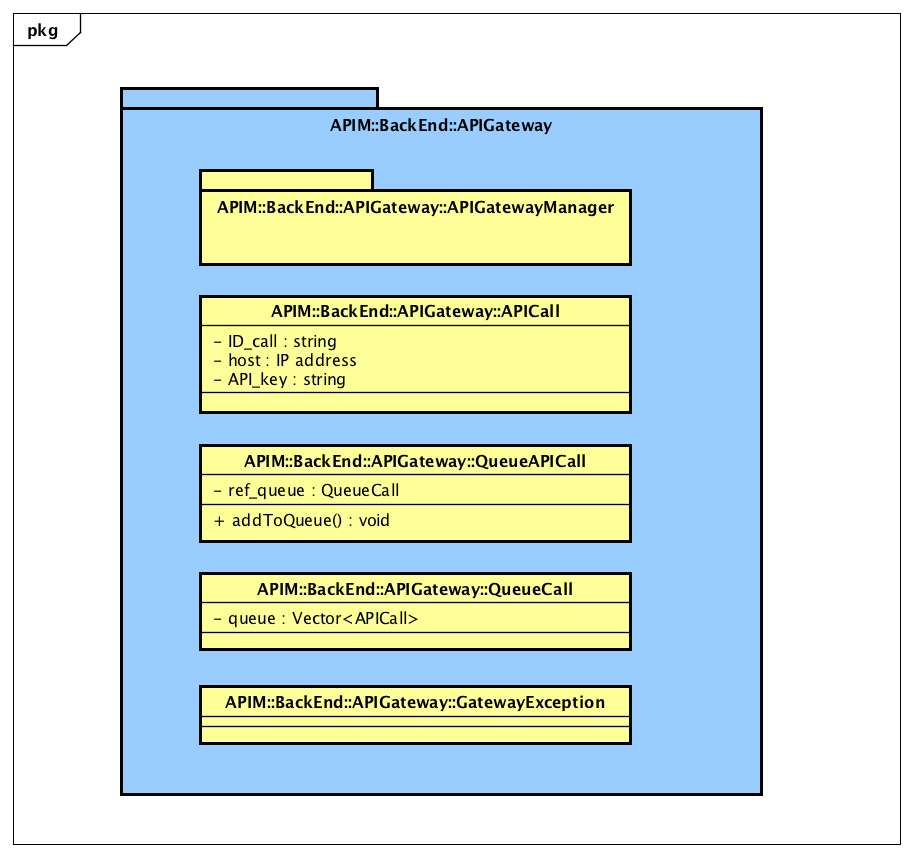
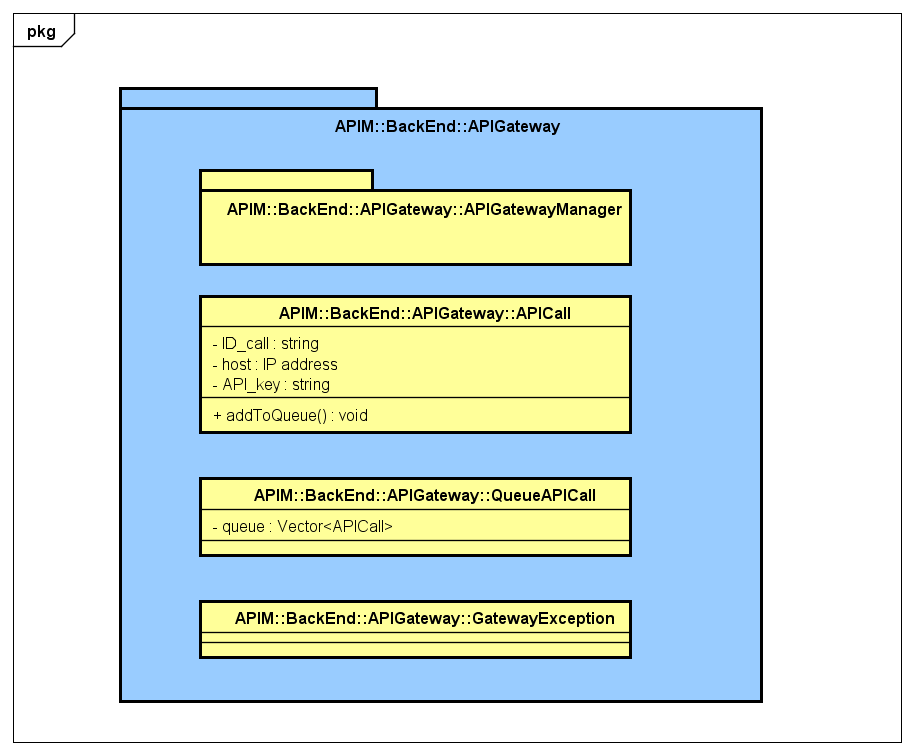
Concluso tracciamento fontireq + Adeguamento apigateway.tex al diagramma
La classe QueueCall in realtà era inutile ed è stata tagliata fuori

diff --git a/Docs/RP/Analisi dei requisiti/includes/tabellaRequisiti/tracciamentoreqfonti.tex b/Docs/RP/Analisi dei requisiti/includes/tabellaRequisiti/tracciamentoreqfonti.tex
@@ -185,30 +185,35 @@
 \hyperlink{RFO4.3.1}{RFO4.3.1} 
 & \hyperlink{Interno}{Interno}\\
 & \hyperref[UC6]{UC6}\\
+& \hyperref[UC6.1]{UC6.1}\\
 & \hyperref[UC6.3]{UC6.3}\\
 & \hyperref[UC6.3.1]{UC6.3.1}\\ \hline
 
 \hyperlink{RFO4.3.2}{RFO4.3.2} 
 & \hyperlink{Interno}{Interno}\\
 & \hyperref[UC6]{UC6}\\
+& \hyperref[UC6.1]{UC6.1}\\
 & \hyperref[UC6.3]{UC6.3}\\
 & \hyperref[UC6.3.2]{UC6.3.2}\\ \hline
 
 \hyperlink{RFO4.3.3}{RFO4.3.3} 
 & \hyperlink{Interno}{Interno}\\
 & \hyperref[UC6]{UC6}\\
+& \hyperref[UC6.1]{UC6.1}\\
 & \hyperref[UC6.3]{UC6.3}\\
 & \hyperref[UC6.3.3]{UC6.3.3}\\ \hline
 
 \hyperlink{RFD4.3.4}{RFD4.3.4} 
 & \hyperlink{Interno}{Interno}\\
 & \hyperref[UC6]{UC6}\\
+& \hyperref[UC6.1]{UC6.1}\\
 & \hyperref[UC6.3]{UC6.3}\\
 & \hyperref[UC6.3.4]{UC6.3.4}\\ \hline
 
 \hyperlink{RFO4.3.5}{RFO4.3.5} 
 & \hyperlink{Interno}{Interno}\\
 & \hyperref[UC6]{UC6}\\
+& \hyperref[UC6.1]{UC6.1}\\
 & \hyperref[UC6.3]{UC6.3}\\
 & \hyperref[UC6.3.5]{UC6.3.5}\\ \hline
 
@@ -257,6 +262,19 @@
 & \hyperlink{Capitolato}{Capitolato}\\
 & \hyperref[UC7]{UC7}\\
 & \hyperref[UC7.6]{UC7.6}\\ \hline
+
+\hyperlink{RFO5.6.1}{RFO5.6.1} 
+& \hyperlink{Capitolato}{Capitolato}\\
+& \hyperref[UC7]{UC7}\\
+& \hyperref[UC7.6]{UC7.6}\\
+& \hyperref[UC7.6.1]{UC7.6.1}\\ \hline
+
+\hyperlink{RFO5.6.2}{RFO5.6.2} 
+& \hyperlink{Capitolato}{Capitolato}\\
+& \hyperref[UC7]{UC7}\\
+& \hyperref[UC7.6]{UC7.6}\\
+& \hyperref[UC7.6.2]{UC7.6.2}\\ \hline
+
 
 \hyperlink{RFO5.7}{RFO5.7} 
 & \hyperlink{Capitolato}{Capitolato}\\
@@ -374,6 +392,7 @@
     \hyperlink{RFO7.1.1}{RFO7.1.1} 
     & \hyperlink{Interno}{Interno}\\
    & \hyperref[UC9]{UC9}\\
+   & \hyperref[UC9.1]{UC9.1}\\
    & \hyperref[UC9.1.1]{UC9.1.1}\\\hline
    
    \hyperlink{RFO7.1.2}{RFO7.1.2} 
@@ -538,13 +557,6 @@
  & \hyperref[UC10.2]{UC10.2}\\
  & \hyperref[UC10.2.4]{UC10.2.4}\\
  & \hyperref[UC10.2.4.10]{UC10.2.4.10}\\\hline
- 
- \hyperlink{RFO8.2.4.11}{RFO8.2.4.11} 
- & \hyperlink{Interno}{Interno}\\
- & \hyperref[UC10]{UC10}\\
- & \hyperref[UC10.2]{UC10.2}\\
- & \hyperref[UC10.2.4]{UC10.2.4}\\
- & \hyperref[UC10.2.4.11]{UC10.2.4.11}\\\hline 
   
  \hyperlink{RFD8.2.5}{RFD8.2.5} 
  & \hyperlink{Interno}{Interno}\\
@@ -563,6 +575,32 @@
  & \hyperref[UC10]{UC10}\\
  & \hyperref[UC10.2]{UC10.2}\\
  & \hyperref[UC10.2.7]{UC10.2.7}\\\hline
+ 
+ \hyperlink{RFO8.2.8}{RFO8.2.8} 
+ & \hyperlink{Interno}{Interno}\\
+ & \hyperref[UC10]{UC10}\\
+ & \hyperref[UC10.2]{UC10.2}\\
+ & \hyperref[UC10.2.8]{UC10.2.8}\\\hline
+ 
+ \hyperlink{RFO8.2.9}{RFO8.2.9} 
+ & \hyperlink{Interno}{Interno}\\
+ & \hyperref[UC10]{UC10}\\
+ & \hyperref[UC10.2]{UC10.2}\\
+ & \hyperref[UC10.2.9]{UC10.2.9}\\\hline
+ 
+ \hyperlink{RFO8.2.9.1}{RFO8.2.9.1} 
+ & \hyperlink{Interno}{Interno}\\
+ & \hyperref[UC10]{UC10}\\
+ & \hyperref[UC10.2]{UC10.2}\\
+ & \hyperref[UC10.2.9]{UC10.2.9}\\
+ & \hyperref[UC10.2.9.1]{UC10.2.9.1}\\\hline
+ 
+\hyperlink{RFO8.2.9.2}{RFO8.2.9.2} 
+ & \hyperlink{Interno}{Interno}\\
+ & \hyperref[UC10]{UC10}\\
+ & \hyperref[UC10.2]{UC10.2}\\
+ & \hyperref[UC10.2.9]{UC10.2.9}\\
+ & \hyperref[UC10.2.9.2]{UC10.2.9.2}\\\hline
  
   \hyperlink{RFO9}{RFO9} 
   & \hyperlink{Capitolato}{Capitolato}\\
@@ -754,7 +792,7 @@
 & \hyperref[UC12.1.2]{UC12.1.2}\\
 & \hyperref[UC12.1.2.6]{UC12.1.2.6}\\\hline
 
- \hyperlink{RFO10.1.2.7}{RFO10.1.2.7} 
+ \hyperlink{RFD10.1.2.7}{RFD10.1.2.7} 
  & \hyperlink{Interno}{Interno}\\
 & \hyperref[UC12]{UC12}\\
 & \hyperref[UC12.1]{UC12.1}\\
@@ -1026,6 +1064,30 @@
 & \hyperref[UC14.1.1]{UC14.1.1}\\
 & \hyperref[UC14.1.1.3]{UC14.1.1.3}\\\hline
 
+ \hyperlink{RFO12.1.1.3.1}{RFO12.1.1.3.1} 
+ & \hyperlink{Interno}{Interno}\\
+& \hyperref[UC14]{UC14}\\
+& \hyperref[UC14.1]{UC14.1}\\
+& \hyperref[UC14.1.1]{UC14.1.1}\\
+& \hyperref[UC14.1.1.3]{UC14.1.1.3}\\
+& \hyperref[UC14.1.1.3.1]{UC14.1.1.3.1}\\\hline
+
+ \hyperlink{RFO12.1.1.3.2}{RFO12.1.1.3.2} 
+ & \hyperlink{Interno}{Interno}\\
+& \hyperref[UC14]{UC14}\\
+& \hyperref[UC14.1]{UC14.1}\\
+& \hyperref[UC14.1.1]{UC14.1.1}\\
+& \hyperref[UC14.1.1.3]{UC14.1.1.3}\\
+& \hyperref[UC14.1.1.3.2]{UC14.1.1.3.2}\\\hline
+
+ \hyperlink{RFO12.1.1.3.3}{RFO12.1.1.3.3} 
+ & \hyperlink{Interno}{Interno}\\
+& \hyperref[UC14]{UC14}\\
+& \hyperref[UC14.1]{UC14.1}\\
+& \hyperref[UC14.1.1]{UC14.1.1}\\
+& \hyperref[UC14.1.1.3]{UC14.1.1.3}\\
+& \hyperref[UC14.1.1.3.3]{UC14.1.1.3.3}\\\hline
+
  \hyperlink{RFO12.2}{RFO12.2} 
  & \hyperlink{Interno}{Interno}\\
 & \hyperref[UC14]{UC14}\\
@@ -1037,43 +1099,78 @@
 & \hyperref[UC14.2]{UC14.2}\\
 & \hyperref[UC14.2.1]{UC14.2.1}\\\hline
 
- \hyperlink{RFO12.2.2}{RFO12.2.2} 
+\hyperlink{RFO12.2.1.1}{RFO12.2.1.1} 
  & \hyperlink{Interno}{Interno}\\
 & \hyperref[UC14]{UC14}\\
 & \hyperref[UC14.2]{UC14.2}\\
-& \hyperref[UC14.2.2]{UC14.2.2}\\\hline
+& \hyperref[UC14.2.1]{UC14.2.1}\\
+& \hyperref[UC14.2.1.1]{UC14.2.1.1}\\\hline
 
- \hyperlink{RFO12.2.2.1}{RFO12.2.2.1} 
+\hyperlink{RFO12.2.1.1.1}{RFO12.2.1.1.1} 
  & \hyperlink{Interno}{Interno}\\
 & \hyperref[UC14]{UC14}\\
 & \hyperref[UC14.2]{UC14.2}\\
-& \hyperref[UC14.2.2]{UC14.2.2}\\
-& \hyperref[UC14.2.2.1]{UC14.2.2.1}\\\hline
+& \hyperref[UC14.2.1.1]{UC14.2.1.1}\\
+& \hyperref[UC14.2.1.1.1]{UC14.2.1.1.1}\\\hline
 
- \hyperlink{RFO12.2.2.2}{RFO12.2.2.2} 
+\hyperlink{RFO12.2.1.1.2}{RFO12.2.1.1.2} 
  & \hyperlink{Interno}{Interno}\\
 & \hyperref[UC14]{UC14}\\
 & \hyperref[UC14.2]{UC14.2}\\
-& \hyperref[UC14.2.2]{UC14.2.2}\\
-& \hyperref[UC14.2.2.2]{UC14.2.2.2}\\\hline
+& \hyperref[UC14.2.1.1]{UC14.2.1.1}\\
+& \hyperref[UC14.2.1.1.2]{UC14.2.1.1.2}\\\hline
 
- \hyperlink{RFO12.2.3}{RFO12.2.3} 
+ \hyperlink{RFO12.2.1.2}{RFO12.2.1.2} 
  & \hyperlink{Interno}{Interno}\\
 & \hyperref[UC14]{UC14}\\
 & \hyperref[UC14.2]{UC14.2}\\
-& \hyperref[UC14.2.3]{UC14.2.3}\\\hline
+& \hyperref[UC14.2.1]{UC14.2.1}\\
+& \hyperref[UC14.2.1.2]{UC14.2.1.2}\\\hline
 
- \hyperlink{RFO12.2.4}{RFO12.2.4} 
+ \hyperlink{RFO12.2.1.2.1}{RFO12.2.1.2.1} 
  & \hyperlink{Interno}{Interno}\\
 & \hyperref[UC14]{UC14}\\
 & \hyperref[UC14.2]{UC14.2}\\
-& \hyperref[UC14.2.4]{UC14.2.4}\\\hline
+& \hyperref[UC14.2.1]{UC14.2.1}\\
+& \hyperref[UC14.2.1.2]{UC14.2.1.2}\\
+& \hyperref[UC14.2.1.2.1]{UC14.2.1.2.1}\\\hline
 
- \hyperlink{RFO12.2.5}{RFO12.2.5} 
+ \hyperlink{RFO12.2.1.3}{RFO12.2.1.3} 
  & \hyperlink{Interno}{Interno}\\
 & \hyperref[UC14]{UC14}\\
 & \hyperref[UC14.2]{UC14.2}\\
-& \hyperref[UC14.2.5]{UC14.2.5}\\\hline
+& \hyperref[UC14.2.1]{UC14.2.1}\\
+& \hyperref[UC14.2.1.3]{UC14.2.1.3}\\\hline
+
+  \hyperlink{RFO12.2.1.4}{RFO12.2.1.4} 
+ & \hyperlink{Interno}{Interno}\\
+& \hyperref[UC14]{UC14}\\
+& \hyperref[UC14.2]{UC14.2}\\
+& \hyperref[UC14.2.1]{UC14.2.1}\\
+& \hyperref[UC14.2.1.4]{UC14.2.1.4}\\\hline
+
+ \hyperlink{RFO12.2.1.5}{RFO12.2.1.5} 
+ & \hyperlink{Interno}{Interno}\\
+& \hyperref[UC14]{UC14}\\
+& \hyperref[UC14.2]{UC14.2}\\
+& \hyperref[UC14.2.1]{UC14.2.1}\\
+& \hyperref[UC14.2.1.5]{UC14.2.1.5}\\\hline
+
+ \hyperlink{RFO12.2.1.5.1}{RFO12.2.1.5.1} 
+ & \hyperlink{Interno}{Interno}\\
+& \hyperref[UC14]{UC14}\\
+& \hyperref[UC14.2]{UC14.2}\\
+& \hyperref[UC14.2.1]{UC14.2.1}\\
+& \hyperref[UC14.2.1.5]{UC14.2.1.5}\\
+& \hyperref[UC14.2.1.5.1]{UC14.2.1.5.1}\\\hline
+
+ \hyperlink{RFO12.2.1.5.2}{RFO12.2.1.5.2} 
+ & \hyperlink{Interno}{Interno}\\
+& \hyperref[UC14]{UC14}\\
+& \hyperref[UC14.2]{UC14.2}\\
+& \hyperref[UC14.2.1]{UC14.2.1}\\
+& \hyperref[UC14.2.1.5]{UC14.2.1.5}\\
+& \hyperref[UC14.2.1.5.2]{UC14.2.1.5.2}\\\hline
 
  \hyperlink{RQO1}{RFO1} 
  & \hyperlink{Interno}{Interno}\\

diff --git a/Docs/RP/Specifica Tecnica/includes/apigateway.tex b/Docs/RP/Specifica Tecnica/includes/apigateway.tex
@@ -9,32 +9,25 @@ Il package principale per il servizio API Gateway è rappresentato dal seguente 
 
 \begin{figure}[!htbp]
 	\centering
-	\includegraphics[scale=0.45]{UML/DiagrammiPackage/ApiGateway.png}
-	\caption{Package APIM::BackEnd::ApiGateway}
+	\includegraphics[scale=0.45]{UML/DiagrammiPackage/APIGateway.png}
+	\caption{Package APIM::BackEnd::APIGateway}
 \end{figure}
 
 
 Il package APIGateway, che rappresenta il servizio omonimo, contiene il seguente package:
 
 \begin{itemize}
-	\item \textbf{ApiGatewayManager}: questo package si occupa gestire le richieste in arrivo, instradare la richiesta al microservizio richiesto e di ovviare in modo opportuno alle condizioni di errore.
+	\item \textbf{APIGatewayManager}: questo package si occupa gestire le richieste in arrivo, instradare la richiesta al microservizio richiesto e di ovviare in modo opportuno alle condizioni di errore.
 \end{itemize}
 
 \paragraph{APICall}
 \begin{itemize}
-	\item \textbf{Funzione del componente}: la classe si occuper\`{a} di istanziare un oggetto che rappresenta la chiamata a un microservizio ricevuta da un client;
+	\item \textbf{Funzione del componente}: la classe si occuper\`{a} di istanziare un oggetto che rappresenta la chiamata a un microservizio ricevuta da un client, che verrà poi inserita in QueueAPICall;
 	\item \textbf{Attivit\`{a} svolte e dati trattati}: la classe contiene un id che identifica univocamente una chiamata, un indirizzo IP per sapere dove restituire la risposta della chiamata e la API Key dell'utente;
-	\item \textbf{Relazioni d'uso di altri componenti}: \textit{QueueCall}, \textit{QueueAPICall}.
+	\item \textbf{Relazioni d'uso di altri componenti}: \textit{QueueAPICall}.
 \end{itemize}
 
 \paragraph{QueueAPICall}
-\begin{itemize}
-	\item \textbf{Funzione del componente}: la classe si occuper\`{a} di istanziare una oggetto che contiene un riferimento a un oggetto QueueCall, il cui numero di istanze \`{e} finito;
-	\item \textbf{Attivit\`{a} svolte e dati trattati}:  Il suo compito principale sar\`{a} aggiungere la richiesta a un microservizio in coda tramite un riferimento a \textit{QueueCall};
-	\item \textbf{Relazioni d'uso di altri componenti}: \textit{QueueCall}.
-\end{itemize}
-
-\paragraph{QueueCall}
 \begin{itemize}
 	\item \textbf{Funzione del componente}: questa classe istanzier\`{a} un numero finito di oggetti, di numero controllato, in modo da garantire un buon servizio, che conterr\`{a} una struttura dati Vector, usata per contenere le APICall;
 	\item \textbf{Attivit\`{a} svolte e dati trattati}:  Il suo compito principale sar\`{a} registrare la richiesta a un microservizio;
@@ -47,37 +40,37 @@ Il package APIGateway, che rappresenta il servizio omonimo, contiene il seguente
 	\item \textbf{Relazioni d'uso di altri componenti}: \textit{APICall}.
 \end{itemize}
 
-\paragraph{GatewayManager}
+\paragraph{APIGatewayManager}
 \begin{figure}[!htbp]
 	\centering
 	\includegraphics[scale=0.45]{UML/DiagrammiPackage/APIGatewayManager.png}
-	\caption{Package APIM::BackEnd::ApiGateway::ApiGatewayManager}
+	\caption{Package APIM::BackEnd::APIGateway::APIGatewayManager}
 \end{figure}
 
-Il package APIGatewayManger, che rappresenta il servizio omonimo, contiene il seguente package:
+Il package APIGatewayManager, che rappresenta il servizio omonimo, contiene il seguente package:
 \begin{itemize}
-	\item \textbf{ApiGatewayManager}: questo package si occupa gestire le richieste in arrivo, instradare la richiesta al microservizio richiesto e di ovviare in modo opportuno alle condizioni di errore. Il suo compito \`{e} anche quello di monitorare  l'utilizzo dei microservizi.
+	\item \textbf{APIGatewayManager}: questo package si occupa gestire le richieste in arrivo, instradare la richiesta al microservizio richiesto e di ovviare in modo opportuno alle condizioni di errore. Il suo compito \`{e} anche quello di monitorare  l'utilizzo dei microservizi.
 \end{itemize}
 
-\subparagraph{ApiGatewayManager}
+\subparagraph{APIGatewayManager}
 \begin{itemize}
-	\item \textbf{Funzione del componente}: questa classe istanzier\`{a} un oggetto che rappresenta un task ed avr\`{a} la funzione di avviare un Thread che gestir\`{a} le richieste correnti all'APIGateway usando i services;
-	\item \textbf{Relazioni d'uso di altri componenti}: \textit{QueueCall}.
+	\item \textbf{Funzione del componente}: questa classe istanzier\`{a} un oggetto che rappresenta un task ed avr\`{a} la funzione di avviare un Thread che gestir\`{a} le richieste correnti all'APIGateway, immagazzinate in QueueAPICall, usando i services. Inoltre salverà i dati della chiamata correntemente eseguita in Buffer, così da averli a disposizione per l'elaborazione;
+	\item \textbf{Relazioni d'uso di altri componenti}: \textit{QueueAPICall}, \textit{Buffer}, \textit{Verifier}, \textit{SLALogger}, \textit{RequestForwarder}, \textit{ResponseForwarder}, .
 \end{itemize}
 
 \subparagraph{Services}
 \begin{figure}[!htbp]
 	\centering
-	\includegraphics[scale=0.45]{UML/DiagrammiPackage/ApiGatewayManagerServices.png}
-	\caption{Package APIM::BackEnd::ApiGateway::ApiGatewayManager::Services}
+	\includegraphics[scale=0.45]{UML/DiagrammiPackage/APIGatewayManagerServices.png}
+	\caption{Package APIM::BackEnd::APIGateway::APIGatewayManager::Services}
 \end{figure}
 \FloatBarrier
 
 \subparagraph{Verifier}
 \begin{itemize}
-	\item \textbf{Funzione del componente}: la classe rappresenta un microservizio che si occupa di verificare che la richiesta ricevuta all'ApiGateway sia valida;
-	\item \textbf{Attivit\`{a} svolte e dati trattati}: la classe controller\`{a} che l'utente sia un utente valido, che il microservizio esista e sia attivo, che l'ApiKey dell'utente non sia scaduta e la SLA associata alla richiesta sia rispettata;
-	\item \textbf{Relazioni d'uso di altri componenti}: RequestForwarder.
+	\item \textbf{Funzione del componente}: la classe rappresenta un microservizio che si occupa di verificare che la richiesta ricevuta all'APIGateway sia valida;
+	\item \textbf{Attivit\`{a} svolte e dati trattati}: la classe controller\`{a} che l'utente sia un utente valido, che il microservizio esista e sia attivo, che l'APIKey dell'utente non sia scaduta e la SLA associata alla richiesta sia rispettata;
+	\item \textbf{Relazioni d'uso di altri componenti}: \textit{RequestForwarder}.
 
 \end{itemize}
 

diff --git a/Docs/RP/Analisi dei requisiti/includes/tabellaRequisiti/tracciamentofontireq.tex b/Docs/RP/Analisi dei requisiti/includes/tabellaRequisiti/tracciamentofontireq.tex
@@ -795,7 +795,7 @@
 & \hyperlink{RFO12.2.1.4}{RFO12.2.1.4}\\
 & \hyperlink{RFO12.2.1.5}{RFO12.2.1.5}\\
 & \hyperlink{RFO12.2.1.5.1}{RFO12.2.1.5.1}\\
-& \hyperlink{RFO12.2.1.5.2}{RFO12.2.1.5.2}\\
+& \hyperlink{RFO12.2.1.5.2}{RFO12.2.1.5.2}\\\hline
 
 \hyperlink{UC14.1}{UC14.1}
 & \hyperlink{RFO12.1}{RFO12.1}\\
